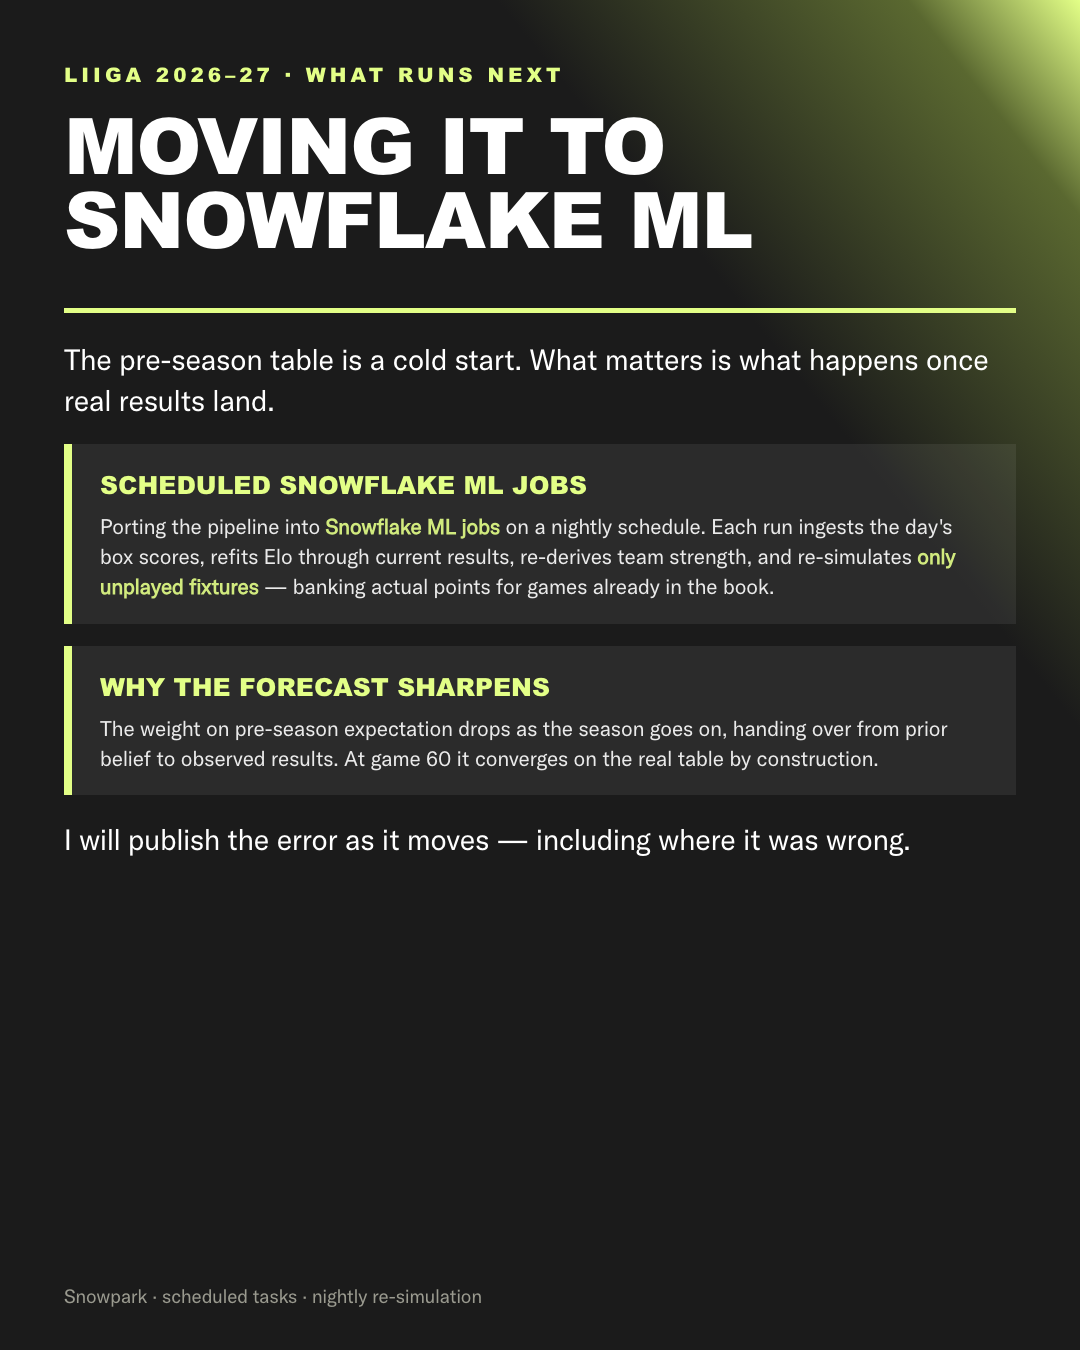
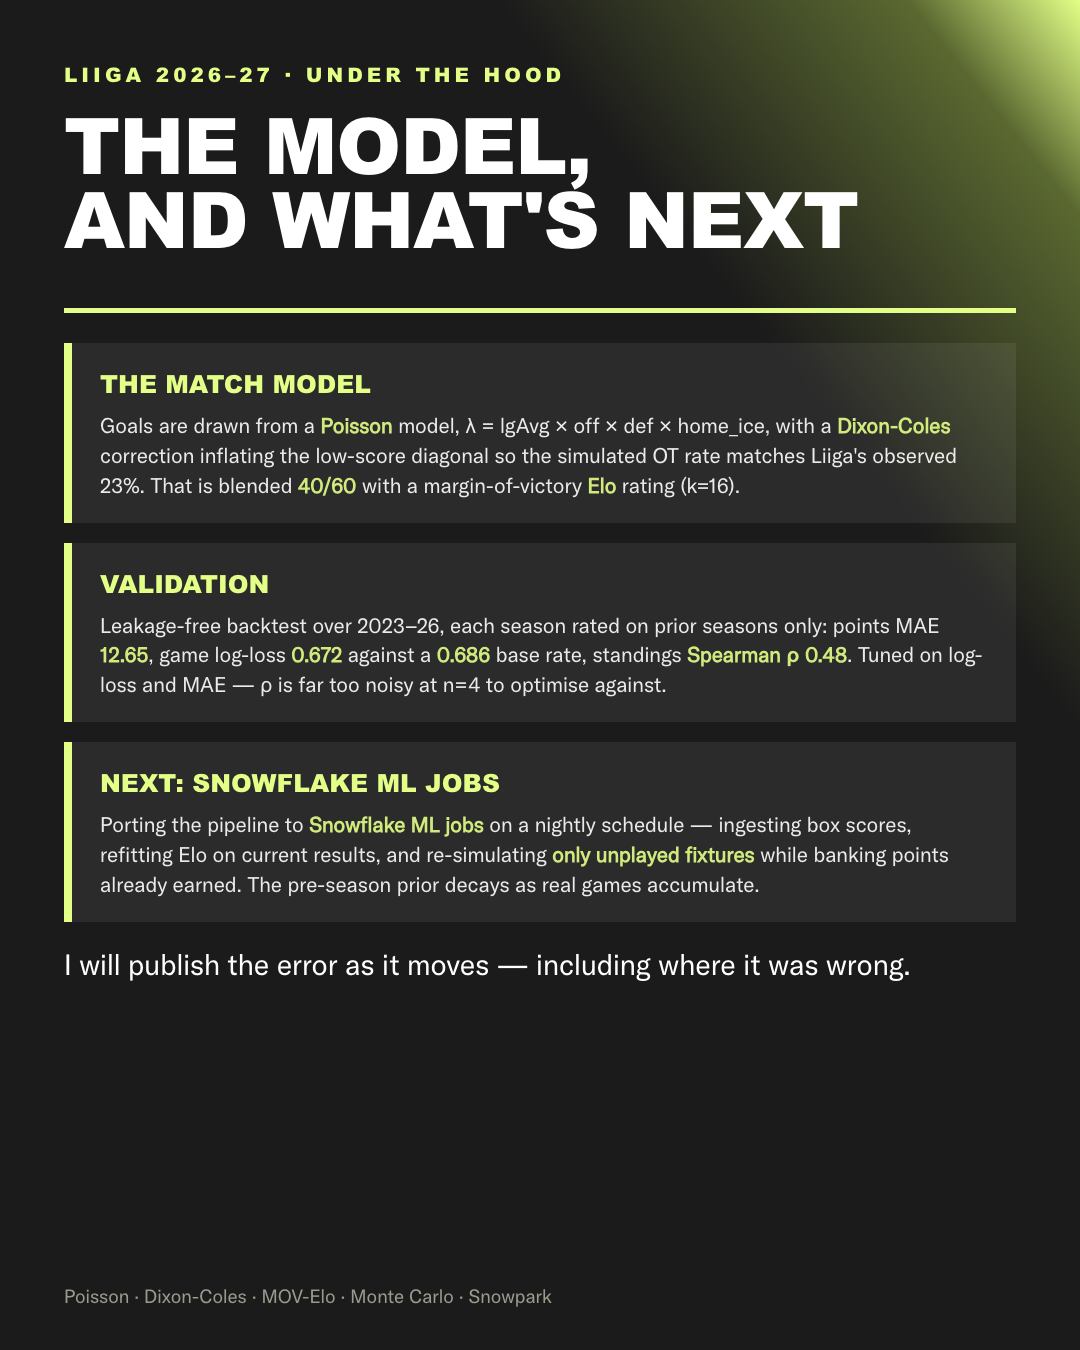
Carousel: half-clipped grayscale crests, technical vocabulary on slide 5
Crests
  Dropped the white circular chip. Each crest is now rendered at 156px,
  desaturated to grayscale and clipped down its vertical centre so only the
  left half is visible. brightness(2.1) is applied because several crests are
  dark-inked and grayscale alone leaves them invisible against the black
  background.

Slide 5
  Moved the modelling vocabulary here so the method slide (4) can stay
  plain-language for a general reader. Now names Poisson, the
  lambda = lgAvg x off x def x home_ice form, the Dixon-Coles low-score
  diagonal correction against Liiga's observed 23% OT rate, MOV-Elo (k=16),
  and the validation numbers -- MAE 12.65, log-loss 0.672 vs 0.686 base rate,
  Spearman rho 0.48, plus the note that tuning used log-loss/MAE rather than
  rho. Snowflake ML section retained. Title shortened to fit two lines.

Note: the crest treatment is a design choice, not a legal one -- cropping and
desaturating a trademark does not put it outside trademark protection. The
actual basis for using club marks here is nominative/editorial use: the images
identify the real clubs being written about.

diff --git a/site_instagram/slide_5.html b/site_instagram/slide_5.html
@@ -16,15 +16,18 @@
   /* ---- standings ---- */
   .body.standings { display:flex; flex-direction:column; padding-bottom:8px; }
   .body.standings .row { flex:1; padding:0; }
-  .row { display:flex; align-items:center; gap:30px;
+  .row { display:flex; align-items:center; gap:26px;
          border-bottom:1px solid rgba(255,255,255,0.07); }
   .row:last-child { border-bottom:none; }
   .rank { width:96px; font-family:"GT America Expanded","Arial Black",Arial,sans-serif; font-size:68px; text-align:right;
           line-height:1; color:#e3ff87; }
-  /* white chip: several club crests are dark-inked and vanish on dark slides */
-  .chip { width:92px; height:92px; background:#FFFFFF; border-radius:50%;
-          display:flex; align-items:center; justify-content:center; flex-shrink:0; }
-  .chip img { width:66px; height:66px; object-fit:contain; }
+  /* Crest treatment: oversized, desaturated, and clipped down the vertical
+     centre so only the left half shows. brightness() is needed because several
+     crests are dark-inked and grayscale alone leaves them invisible on black. */
+  .chip { width:78px; height:156px; overflow:hidden; flex-shrink:0;
+          display:flex; align-items:center; }
+  .chip img { width:156px; height:156px; max-width:none; object-fit:contain;
+              filter:grayscale(1) brightness(2.1) contrast(0.95); opacity:0.92; }
   .name { flex:1; font-family:"GT America Expanded","Arial Black",Arial,sans-serif; font-size:44px; text-transform:uppercase;
           letter-spacing:-0.5px; }
   .pts { text-align:right; }
@@ -52,28 +55,36 @@
 </style></head><body>
   <div class="slide">
     <div class="head">
-      <div class="kicker">Liiga 2026–27 · What runs next</div>
-      <div class="title">Moving it to<br>Snowflake ML</div>
+      <div class="kicker">Liiga 2026–27 · Under the hood</div>
+      <div class="title">The model,<br>and what's next</div>
     </div>
     <div class="rule"></div>
     <div class="body">
-      <p class="big">The pre-season table is a cold start. What matters is what
-      happens once real results land.</p>
-      <div class="callout" style="margin-top:24px">
-        <b>Scheduled Snowflake ML jobs</b>
-        <span>Porting the pipeline into <b>Snowflake ML jobs</b> on a nightly
-        schedule. Each run ingests the day's box scores, refits Elo through
-        current results, re-derives team strength, and re-simulates
-        <b>only unplayed fixtures</b> — banking actual points for games already
-        in the book.</span>
+      <div class="callout">
+        <b>The match model</b>
+        <span>Goals are drawn from a <b>Poisson</b> model,
+        λ = lgAvg × off × def × home_ice, with a <b>Dixon-Coles</b> correction
+        inflating the low-score diagonal so the simulated OT rate matches
+        Liiga's observed 23%. That is blended <b>40/60</b>
+        with a margin-of-victory <b>Elo</b> rating (k=16).</span>
       </div>
-      <div class="callout" style="margin-top:22px">
-        <b>Why the forecast sharpens</b>
-        <span>The weight on pre-season expectation drops as the season goes on, handing over from prior belief to observed results. At game 60
-        it converges on the real table by construction.</span>
+      <div class="callout" style="margin-top:20px">
+        <b>Validation</b>
+        <span>Leakage-free backtest over 2023–26, each season rated on prior
+        seasons only: points MAE <b>12.65</b>, game log-loss
+        <b>0.672</b> against a <b>0.686</b> base rate, standings
+        <b>Spearman ρ 0.48</b>. Tuned on log-loss and MAE — ρ is far too noisy
+        at n=4 to optimise against.</span>
       </div>
-      <p class="big" style="margin-top:24px">I will publish the error as it
+      <div class="callout" style="margin-top:20px">
+        <b>Next: Snowflake ML jobs</b>
+        <span>Porting the pipeline to <b>Snowflake ML jobs</b> on a nightly
+        schedule — ingesting box scores, refitting Elo on current results, and
+        re-simulating <b>only unplayed fixtures</b> while banking points
+        already earned. The pre-season prior decays as real games accumulate.</span>
+      </div>
+      <p class="big" style="margin-top:22px">I will publish the error as it
       moves — including where it was wrong.</p>
     </div>
-    <div class="foot">Snowpark · scheduled tasks · nightly re-simulation</div>
+    <div class="foot">Poisson · Dixon-Coles · MOV-Elo · Monte Carlo · Snowpark</div>
   </div></body></html>

diff --git a/site_instagram/slide_1.html b/site_instagram/slide_1.html
@@ -16,15 +16,18 @@
   /* ---- standings ---- */
   .body.standings { display:flex; flex-direction:column; padding-bottom:8px; }
   .body.standings .row { flex:1; padding:0; }
-  .row { display:flex; align-items:center; gap:30px;
+  .row { display:flex; align-items:center; gap:26px;
          border-bottom:1px solid rgba(255,255,255,0.07); }
   .row:last-child { border-bottom:none; }
   .rank { width:96px; font-family:"GT America Expanded","Arial Black",Arial,sans-serif; font-size:68px; text-align:right;
           line-height:1; color:#e3ff87; }
-  /* white chip: several club crests are dark-inked and vanish on dark slides */
-  .chip { width:92px; height:92px; background:#FFFFFF; border-radius:50%;
-          display:flex; align-items:center; justify-content:center; flex-shrink:0; }
-  .chip img { width:66px; height:66px; object-fit:contain; }
+  /* Crest treatment: oversized, desaturated, and clipped down the vertical
+     centre so only the left half shows. brightness() is needed because several
+     crests are dark-inked and grayscale alone leaves them invisible on black. */
+  .chip { width:78px; height:156px; overflow:hidden; flex-shrink:0;
+          display:flex; align-items:center; }
+  .chip img { width:156px; height:156px; max-width:none; object-fit:contain;
+              filter:grayscale(1) brightness(2.1) contrast(0.95); opacity:0.92; }
   .name { flex:1; font-family:"GT America Expanded","Arial Black",Arial,sans-serif; font-size:44px; text-transform:uppercase;
           letter-spacing:-0.5px; }
   .pts { text-align:right; }

diff --git a/site_instagram/slide_2.html b/site_instagram/slide_2.html
@@ -16,15 +16,18 @@
   /* ---- standings ---- */
   .body.standings { display:flex; flex-direction:column; padding-bottom:8px; }
   .body.standings .row { flex:1; padding:0; }
-  .row { display:flex; align-items:center; gap:30px;
+  .row { display:flex; align-items:center; gap:26px;
          border-bottom:1px solid rgba(255,255,255,0.07); }
   .row:last-child { border-bottom:none; }
   .rank { width:96px; font-family:"GT America Expanded","Arial Black",Arial,sans-serif; font-size:68px; text-align:right;
           line-height:1; color:#e3ff87; }
-  /* white chip: several club crests are dark-inked and vanish on dark slides */
-  .chip { width:92px; height:92px; background:#FFFFFF; border-radius:50%;
-          display:flex; align-items:center; justify-content:center; flex-shrink:0; }
-  .chip img { width:66px; height:66px; object-fit:contain; }
+  /* Crest treatment: oversized, desaturated, and clipped down the vertical
+     centre so only the left half shows. brightness() is needed because several
+     crests are dark-inked and grayscale alone leaves them invisible on black. */
+  .chip { width:78px; height:156px; overflow:hidden; flex-shrink:0;
+          display:flex; align-items:center; }
+  .chip img { width:156px; height:156px; max-width:none; object-fit:contain;
+              filter:grayscale(1) brightness(2.1) contrast(0.95); opacity:0.92; }
   .name { flex:1; font-family:"GT America Expanded","Arial Black",Arial,sans-serif; font-size:44px; text-transform:uppercase;
           letter-spacing:-0.5px; }
   .pts { text-align:right; }

diff --git a/site_instagram/slide_3.html b/site_instagram/slide_3.html
@@ -16,15 +16,18 @@
   /* ---- standings ---- */
   .body.standings { display:flex; flex-direction:column; padding-bottom:8px; }
   .body.standings .row { flex:1; padding:0; }
-  .row { display:flex; align-items:center; gap:30px;
+  .row { display:flex; align-items:center; gap:26px;
          border-bottom:1px solid rgba(255,255,255,0.07); }
   .row:last-child { border-bottom:none; }
   .rank { width:96px; font-family:"GT America Expanded","Arial Black",Arial,sans-serif; font-size:68px; text-align:right;
           line-height:1; color:#e3ff87; }
-  /* white chip: several club crests are dark-inked and vanish on dark slides */
-  .chip { width:92px; height:92px; background:#FFFFFF; border-radius:50%;
-          display:flex; align-items:center; justify-content:center; flex-shrink:0; }
-  .chip img { width:66px; height:66px; object-fit:contain; }
+  /* Crest treatment: oversized, desaturated, and clipped down the vertical
+     centre so only the left half shows. brightness() is needed because several
+     crests are dark-inked and grayscale alone leaves them invisible on black. */
+  .chip { width:78px; height:156px; overflow:hidden; flex-shrink:0;
+          display:flex; align-items:center; }
+  .chip img { width:156px; height:156px; max-width:none; object-fit:contain;
+              filter:grayscale(1) brightness(2.1) contrast(0.95); opacity:0.92; }
   .name { flex:1; font-family:"GT America Expanded","Arial Black",Arial,sans-serif; font-size:44px; text-transform:uppercase;
           letter-spacing:-0.5px; }
   .pts { text-align:right; }

diff --git a/site_instagram/slide_4.html b/site_instagram/slide_4.html
@@ -16,15 +16,18 @@
   /* ---- standings ---- */
   .body.standings { display:flex; flex-direction:column; padding-bottom:8px; }
   .body.standings .row { flex:1; padding:0; }
-  .row { display:flex; align-items:center; gap:30px;
+  .row { display:flex; align-items:center; gap:26px;
          border-bottom:1px solid rgba(255,255,255,0.07); }
   .row:last-child { border-bottom:none; }
   .rank { width:96px; font-family:"GT America Expanded","Arial Black",Arial,sans-serif; font-size:68px; text-align:right;
           line-height:1; color:#e3ff87; }
-  /* white chip: several club crests are dark-inked and vanish on dark slides */
-  .chip { width:92px; height:92px; background:#FFFFFF; border-radius:50%;
-          display:flex; align-items:center; justify-content:center; flex-shrink:0; }
-  .chip img { width:66px; height:66px; object-fit:contain; }
+  /* Crest treatment: oversized, desaturated, and clipped down the vertical
+     centre so only the left half shows. brightness() is needed because several
+     crests are dark-inked and grayscale alone leaves them invisible on black. */
+  .chip { width:78px; height:156px; overflow:hidden; flex-shrink:0;
+          display:flex; align-items:center; }
+  .chip img { width:156px; height:156px; max-width:none; object-fit:contain;
+              filter:grayscale(1) brightness(2.1) contrast(0.95); opacity:0.92; }
   .name { flex:1; font-family:"GT America Expanded","Arial Black",Arial,sans-serif; font-size:44px; text-transform:uppercase;
           letter-spacing:-0.5px; }
   .pts { text-align:right; }

diff --git a/scripts/build_instagram.py b/scripts/build_instagram.py
@@ -97,15 +97,18 @@ def css(t: dict) -> str:
   /* ---- standings ---- */
   .body.standings {{ display:flex; flex-direction:column; padding-bottom:8px; }}
   .body.standings .row {{ flex:1; padding:0; }}
-  .row {{ display:flex; align-items:center; gap:30px;
+  .row {{ display:flex; align-items:center; gap:26px;
          border-bottom:1px solid {t['panel']}; }}
   .row:last-child {{ border-bottom:none; }}
   .rank {{ width:96px; font-family:{HEAD_F}; font-size:68px; text-align:right;
           line-height:1; color:{t['accent']}; }}
-  /* white chip: several club crests are dark-inked and vanish on dark slides */
-  .chip {{ width:92px; height:92px; background:#FFFFFF; border-radius:50%;
-          display:flex; align-items:center; justify-content:center; flex-shrink:0; }}
-  .chip img {{ width:66px; height:66px; object-fit:contain; }}
+  /* Crest treatment: oversized, desaturated, and clipped down the vertical
+     centre so only the left half shows. brightness() is needed because several
+     crests are dark-inked and grayscale alone leaves them invisible on black. */
+  .chip {{ width:78px; height:156px; overflow:hidden; flex-shrink:0;
+          display:flex; align-items:center; }}
+  .chip img {{ width:156px; height:156px; max-width:none; object-fit:contain;
+              filter:grayscale(1) brightness(2.1) contrast(0.95); opacity:0.92; }}
   .name {{ flex:1; font-family:{HEAD_F}; font-size:44px; text-transform:uppercase;
           letter-spacing:-0.5px; }}
   .pts {{ text-align:right; }}
@@ -207,33 +210,43 @@ def how_slide(t: dict) -> str:
 
 
 def next_slide(t: dict) -> str:
+    """Technical slide: this is where the modelling vocabulary lives, so the
+    method slide can stay plain-language for a general reader."""
     return page(t, f"""
   <div class="slide">
     <div class="head">
-      <div class="kicker">Liiga 2026–27 · What runs next</div>
-      <div class="title">Moving it to<br>Snowflake ML</div>
+      <div class="kicker">Liiga 2026–27 · Under the hood</div>
+      <div class="title">The model,<br>and what's next</div>
     </div>
     <div class="rule"></div>
     <div class="body">
-      <p class="big">The pre-season table is a cold start. What matters is what
-      happens once real results land.</p>
-      <div class="callout" style="margin-top:24px">
-        <b>Scheduled Snowflake ML jobs</b>
-        <span>Porting the pipeline into <b>Snowflake ML jobs</b> on a nightly
-        schedule. Each run ingests the day's box scores, refits Elo through
-        current results, re-derives team strength, and re-simulates
-        <b>only unplayed fixtures</b> — banking actual points for games already
-        in the book.</span>
+      <div class="callout">
+        <b>The match model</b>
+        <span>Goals are drawn from a <b>Poisson</b> model,
+        λ = lgAvg × off × def × home_ice, with a <b>Dixon-Coles</b> correction
+        inflating the low-score diagonal so the simulated OT rate matches
+        Liiga's observed 23%. That is blended <b>{POISSON_PCT}/{ELO_PCT}</b>
+        with a margin-of-victory <b>Elo</b> rating (k=16).</span>
       </div>
-      <div class="callout" style="margin-top:22px">
-        <b>Why the forecast sharpens</b>
-        <span>The weight on pre-season expectation drops as the season goes on, handing over from prior belief to observed results. At game 60
-        it converges on the real table by construction.</span>
+      <div class="callout" style="margin-top:20px">
+        <b>Validation</b>
+        <span>Leakage-free backtest over 2023–26, each season rated on prior
+        seasons only: points MAE <b>{BACKTEST_MAE}</b>, game log-loss
+        <b>0.672</b> against a <b>0.686</b> base rate, standings
+        <b>Spearman ρ 0.48</b>. Tuned on log-loss and MAE — ρ is far too noisy
+        at n=4 to optimise against.</span>
       </div>
-      <p class="big" style="margin-top:24px">I will publish the error as it
+      <div class="callout" style="margin-top:20px">
+        <b>Next: Snowflake ML jobs</b>
+        <span>Porting the pipeline to <b>Snowflake ML jobs</b> on a nightly
+        schedule — ingesting box scores, refitting Elo on current results, and
+        re-simulating <b>only unplayed fixtures</b> while banking points
+        already earned. The pre-season prior decays as real games accumulate.</span>
+      </div>
+      <p class="big" style="margin-top:22px">I will publish the error as it
       moves — including where it was wrong.</p>
     </div>
-    <div class="foot">Snowpark · scheduled tasks · nightly re-simulation</div>
+    <div class="foot">Poisson · Dixon-Coles · MOV-Elo · Monte Carlo · Snowpark</div>
   </div>""")
 
 
